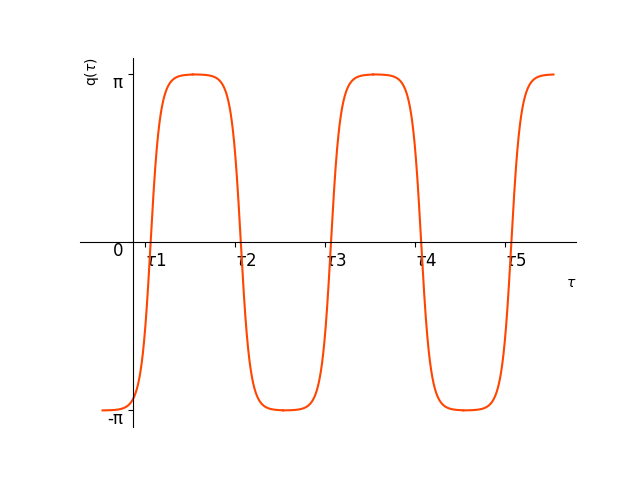
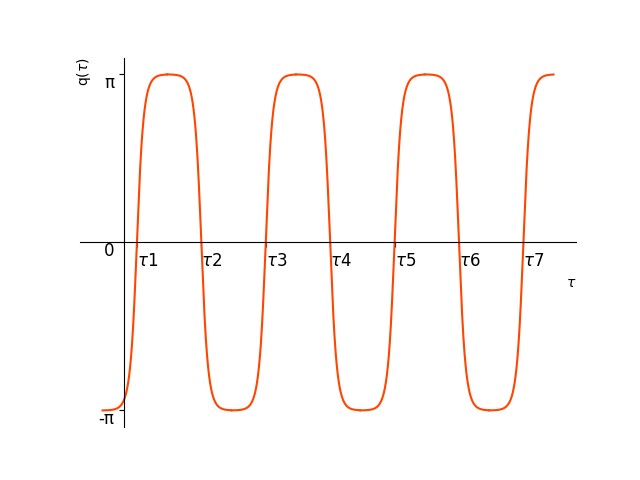
custom order for Periodic potential multiple instantons

diff --git a/Multiple-instantons.py b/Multiple-instantons.py
@@ -25,7 +25,10 @@ N= 5 # # instantons + #anti-instantons for DW
 
 g = 1
 tau0_PP = 3
-N_PP= 5 # # instantons + #anti-instantons
+N_PP= 7 # # instantons + #anti-instantons
+custom = 'IIAAIAAII' #custom order of (anti-)instantons for periodic potential. I=instanton , A=Anti-instantons 
+#remember that #I-#A= distance , please modify (1) and (2) if you need (automatic in future releases)
+
 
 FunctionColor = 'orangered' #color of the plot
 SecondFunctionColor ='b'
@@ -84,7 +87,7 @@ ax.yaxis.set_ticks_position('left')
 ax.set_ylabel(r'q($\tau)$', loc='top')
 ax.set_xlabel(r'$\tau$', loc='right')
 if Letter_mode:
-    xTicksInst = np.arange(tau0, 15*N_PP, step=15)
+    xTicksInst = np.arange(tau0_PP, 15*N_PP, step=15)
     yTicksInst = [-np.pi,0 , np.pi]
     xTicksLabel = []
     for i in range(N_PP):
@@ -105,3 +108,53 @@ for i in range(N_PP):
 
 
 plt.savefig(os.path.join('SG_Multiple-Instanton.png'))
+
+#----------------------------------------------------------------------------------------
+#Periodic Potential multiple-instantons (with  custom order)
+
+fig2 , ax2 = plt.subplots()
+
+ax2.spines['left'].set_position('zero')
+ax2.spines['bottom'].set_position('zero')
+ax2.spines['right'].set_color('none')
+ax2.spines['top'].set_color('none')
+ax2.xaxis.set_ticks_position('bottom')
+ax2.yaxis.set_ticks_position('left')
+ax2.set_ylabel(r'q($\tau)$', loc='top')
+ax2.set_xlabel(r'$\tau$', loc='right')
+part = len(custom) #number of inst
+if Letter_mode:
+    xTicksInst = np.arange(tau0_PP, 15*part, step=15)
+    yTicksInst = [-3*np.pi, -np.pi,0 , np.pi , 3*np.pi] #(1)
+    xTicksLabel = []
+    i = 0
+    for char in custom:
+        label = r'$\tau$'+ str(i+1)
+        xTicksLabel.append(label)
+        i= i+1
+    plt.xticks(xTicksInst, xTicksLabel)
+    plt.yticks (yTicksInst , ['-3π','-π', '0','π', '3π']) #(2)
+    plt.xticks(fontsize=12)
+    plt.yticks(fontsize=12)
+    plt.setp( ax2.xaxis.get_majorticklabels(), ha="left" )
+    plt.setp( ax2.yaxis.get_majorticklabels(), va="top" )
+
+#plt.ylim(-a-0.3,a+0.3)
+j = 0
+InstNumber = 0
+for char in custom:
+    t = np.linspace(-5+j*15, 10+j*15, 10000)
+    if (char=='I'):
+        q_inst = 2*np.arcsin(np.tanh((t-(tau0_PP+j*15))*g)) + 2*np.pi*InstNumber 
+        ax2.plot(t , q_inst, FunctionColor)
+        InstNumber = InstNumber +1 
+        j = j+1
+        continue
+    q_inst = -2*np.arcsin(np.tanh((t-(tau0_PP+j*15))*g)) + 2*np.pi*(InstNumber -1 )
+    ax2.plot(t , q_inst, FunctionColor)
+    InstNumber = InstNumber - 1 
+    j = j+1
+        
+
+
+plt.savefig(os.path.join('SG_Multiple-Instanton_custom.png'))
